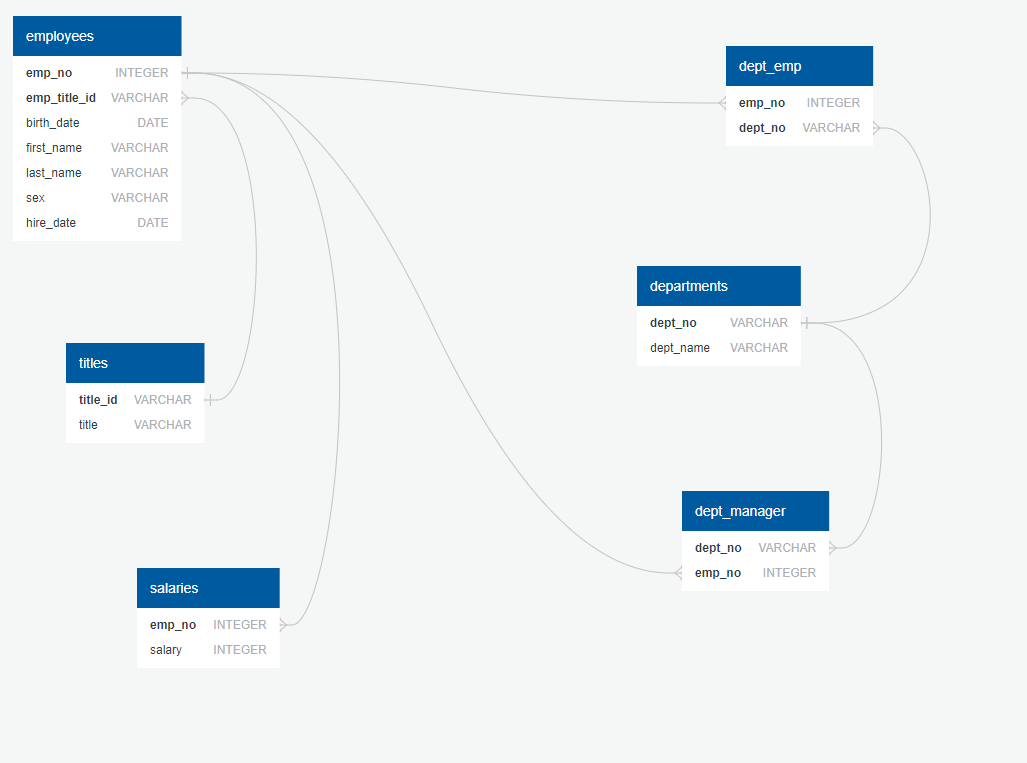
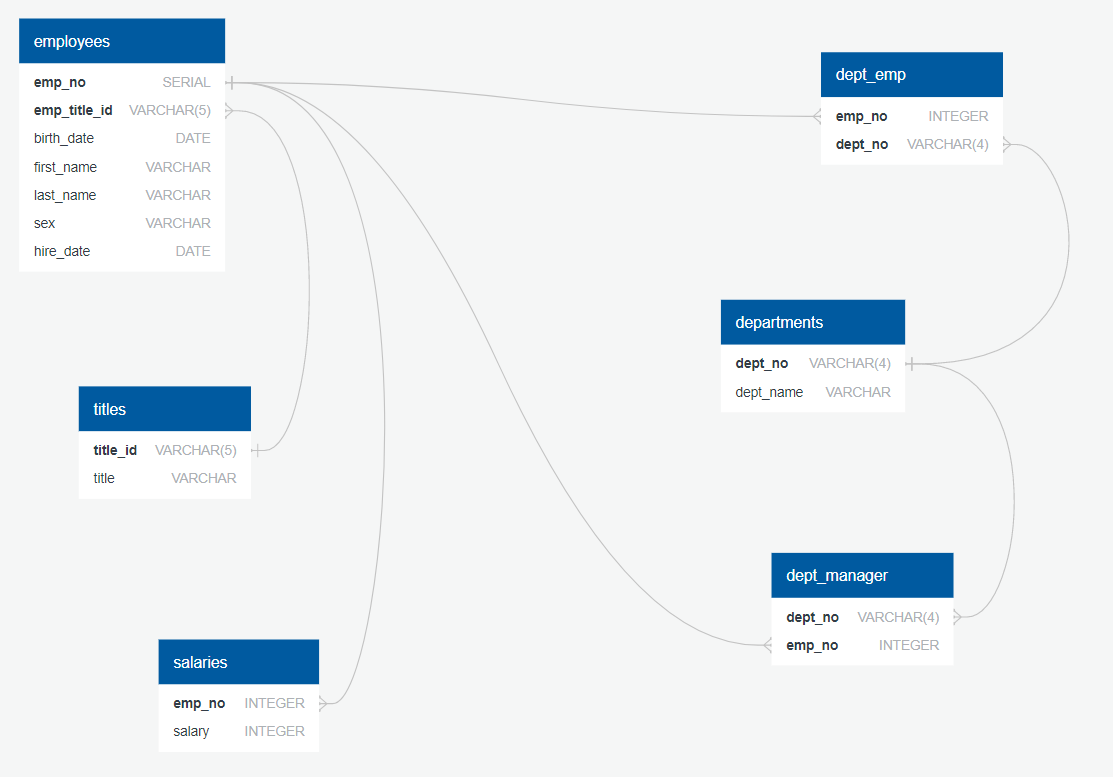
README file updated, as well as minor details here and there. Challenge completed.

diff --git a/README.md b/README.md
@@ -1,4 +1,17 @@
 # sql-challenge
 Module 9 Challenge
 
-Entity Relationship Diagram: https://app.quickdatabasediagrams.com/#/d/rnOLX6
+This repository contains an EmployeeSQL folder that includes:
+
+- a PNG file of the Entity Relationship Diagram titled "data_modeling_ERD". Here is the link of the same file on QuickDBD: https://app.quickdatabasediagrams.com/#/d/rnOLX6;
+
+- a SQL file of table schemata titled "data_engineering";
+
+- a SQL file of necessary queries titled "data_analysis".
+
+
+The database contains six tables: "departments", "titles", "employees", "salaries", "dept_emp", and "dept_manager". Data was imported from CSV files into the tables using the pgAdmin 4 "Import/Export Data..." option.
+
+In the "data_analysis" file, eight various queries were created. Each one is preceded by its description.
+
+MR
